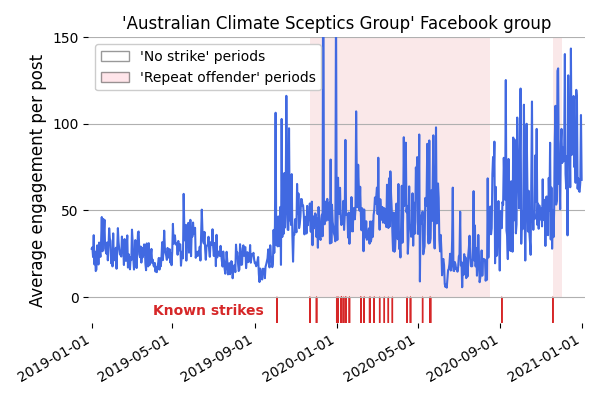
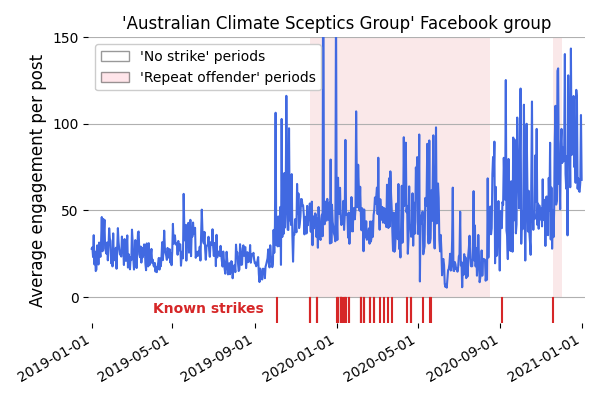
change figure detail

Changed region(s): [[0.24, 0.75, 0.45, 0.81], [0.57, 0.72, 0.72, 0.81], [0.51, 0.75, 0.54, 0.81]]

diff --git a/code/create_section_1_figures.py b/code/create_section_1_figures.py
@@ -114,7 +114,7 @@ def plot_repeat_example_timeseries_figure(posts_df, posts_url_df, url_df):
 
     fake_news_dates = compute_fake_news_dates(posts_url_df, url_df, account_id)
     for date in fake_news_dates:
-        plt.arrow(x=date, y=0, dx=0, dy=-15, color='C3')
+        plt.plot([date, date], [-15, -.5], color='C3')
     plt.text(
         s='Known strikes', color='C3', fontweight='bold',
         x=np.datetime64('2019-09-15'), horizontalalignment='right', 
@@ -220,5 +220,5 @@ if __name__=="__main__":
 
     plot_repeat_example_timeseries_figure(posts_df, posts_url_df, url_df)
 
-    plot_repeat_average_timeseries(posts_df)
-    plot_repeat_june_drop_percentage_change(posts_df)
+    # plot_repeat_average_timeseries(posts_df)
+    # plot_repeat_june_drop_percentage_change(posts_df)
